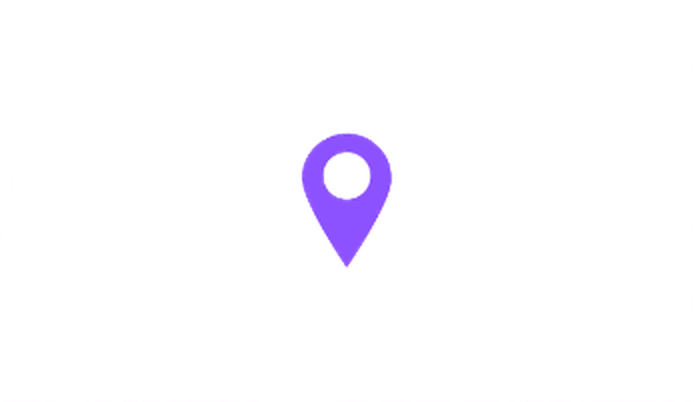
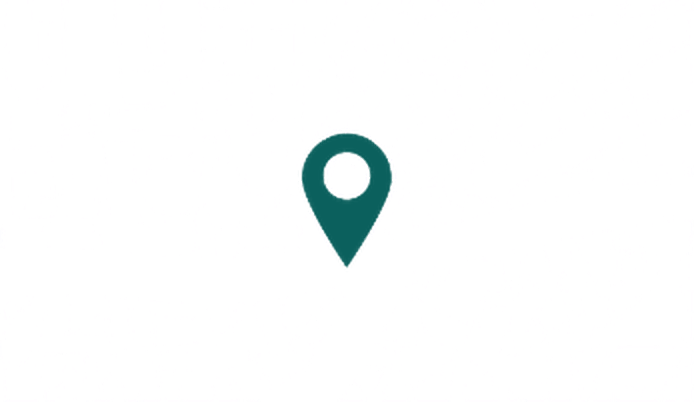
Switch brand color to teal #15B5B0
About: white background with teal wordmark and text. Contact: teal background with white text.
Menu, icons, share image and map pin recolored; menu bars turn teal over white.

Changed region(s): [[0.4236, 0.3284, 0.5749, 0.6567]]

diff --git a/index.html b/index.html
@@ -19,15 +19,12 @@
   <meta name="twitter:title" content="aroo. | Dog waste removal in Kansas">
   <meta name="twitter:description" content="Local, personal dog waste removal in Lawrence, Topeka and Manhattan, Kansas. Text DOG to (785) 600-8801.">
   <meta name="twitter:image" content="https://aroodog.com/assets/brand/og-image.png">
-  <meta name="theme-color" content="#6558DD">
+  <meta name="theme-color" content="#15B5B0">
   <link rel="icon" type="image/png" href="assets/brand/icon-512.png">
   <link rel="apple-touch-icon" href="assets/brand/apple-touch-icon.png">
   <style>
     :root {
-      --aroo-purple: #6558DD;
-      --aroo-violet: #8C52FF;
-      --aroo-sun: #FFDE59;
-      --aroo-yellow: var(--aroo-sun); /* about text matches the contact background */
+      --aroo-teal: #15B5B0; /* main brand color */
     }
     * { box-sizing: border-box; margin: 0; padding: 0; }
     body {
@@ -40,7 +37,7 @@
       height: 100vh;
       height: 100svh;
       overflow: hidden;
-      background: var(--aroo-purple);
+      background: var(--aroo-teal);
     }
 
     /* The stage holds 1 panel on phones, 3 side by side on desktop. */
@@ -96,7 +93,7 @@
     }
 
     /* ---------- About ---------- */
-    .about { background: var(--aroo-violet); }
+    .about { background: #fff; }
 
     .about-photo {
       position: relative;
@@ -109,7 +106,7 @@
       object-fit: cover;
       object-position: 50% 62%;
     }
-    /* White wordmark sits on the photo's bottom edge, dipping slightly onto the purple below. */
+    /* Teal wordmark sits on the photo's bottom edge, dipping slightly onto the white below. */
     .about-wordmark {
       position: absolute;
       left: 50%;
@@ -133,7 +130,7 @@
       grid-row: 1;
       font-family: "Jost", "Futura", "Century Gothic", system-ui, sans-serif;
       font-weight: 600;
-      color: var(--aroo-yellow);
+      color: var(--aroo-teal);
       font-size: clamp(20px, 2.4vw, 38px);
       line-height: 1.24;
       letter-spacing: -0.005em;
@@ -158,13 +155,12 @@
       margin-top: 0.9em;
       font-family: "Jost", "Futura", "Century Gothic", system-ui, sans-serif;
       font-weight: 600;
-      color: #fff;
+      color: var(--aroo-teal);
       font-size: clamp(26px, 3.6vw, 56px);
       line-height: 1.1;
       letter-spacing: -0.01em;
       white-space: nowrap;
     }
-    .about-text .hl { color: #fff; }
 
     @media (max-width: 720px) {
       .about-photo { height: 64vh; height: 64svh; }
@@ -178,7 +174,7 @@
       .about-dog figcaption { font-size: clamp(24px, 7.4vw, 34px); }
     }
     /* ---------- Contact ---------- */
-    .contact { background: var(--aroo-sun); overflow: hidden; padding: clamp(72px, 9vw, 130px) 0 clamp(64px, 7vw, 110px); }
+    .contact { background: var(--aroo-teal); color: #fff; overflow: hidden; padding: clamp(72px, 9vw, 130px) 0 clamp(64px, 7vw, 110px); }
     /* The poster scales as one piece: sizes are in cqw (1cqw = 1% of poster width; design was 1080px wide). */
     .contact-poster {
       container-type: inline-size;
@@ -196,7 +192,7 @@
     .contact-poster .brush {
       font-family: "Chewy", "Comic Sans MS", cursive;
       font-weight: 400;
-      color: var(--aroo-violet);
+      color: #fff;
       line-height: 1;
     }
     .contact-title {
@@ -221,7 +217,7 @@
       list-style: none;
       margin: 1.9cqw 0 0;
       padding: 0;
-      color: var(--aroo-violet);
+      color: #fff;
       font-size: 2.05cqw;
       letter-spacing: 0.02em;
     }
@@ -247,18 +243,18 @@
       font-size: 2.45cqw;
       letter-spacing: 0.02em;
     }
-    .contact-cta .lead b { color: var(--aroo-violet); font-weight: inherit; }
+    .contact-cta .lead b { font-weight: inherit; }
     .contact-phone {
       display: inline-block;
       margin-top: 1.6cqw;
-      color: var(--aroo-violet);
+      color: #fff;
       font-size: 5.7cqw;
       text-decoration: none;
       letter-spacing: -0.005em;
       transition: transform 0.2s ease, color 0.2s ease;
     }
-    .contact-phone:hover, .contact-phone:focus-visible { color: #fff; transform: scale(1.03); }
-    .contact-phone:focus-visible { outline: 3px solid var(--aroo-violet); outline-offset: 6px; }
+    .contact-phone:hover, .contact-phone:focus-visible { transform: scale(1.04); }
+    .contact-phone:focus-visible { outline: 3px solid #fff; outline-offset: 6px; }
 
     @media (max-width: 640px) {
       .contact { padding: 64px 20px 72px; }
@@ -318,8 +314,8 @@
       min-width: 230px;
       padding: 68px 30px 26px;
       border-radius: 18px;
-      background: var(--aroo-violet);
-      box-shadow: 0 18px 40px rgba(40, 20, 90, 0.3);
+      background: var(--aroo-teal);
+      box-shadow: 0 18px 40px rgba(5, 60, 58, 0.3);
       opacity: 0;
       visibility: hidden;
       transform: translateY(-8px) scale(0.98);
@@ -346,7 +342,10 @@
       letter-spacing: 0.01em;
       transition: color 0.15s ease;
     }
-    .menu-panel a:hover, .menu-panel a:focus-visible { color: var(--aroo-yellow); outline: none; }
+    .menu-panel a:hover, .menu-panel a:focus-visible { text-decoration: underline; text-decoration-thickness: 3px; text-underline-offset: 6px; outline: none; }
+    /* Over the white part of the About section the bars turn teal so they stay visible. */
+    .menu.on-light:not(.is-open) .bars span { background: var(--aroo-teal); box-shadow: none; }
+    .menu.on-light:not(.is-open) .menu-toggle:focus-visible { outline-color: var(--aroo-teal); }
   </style>
   <link rel="preconnect" href="https://fonts.googleapis.com">
   <link rel="preconnect" href="https://fonts.gstatic.com" crossorigin>
@@ -377,7 +376,7 @@
       <img src="assets/about/about-dog.jpg"
            srcset="assets/about/about-dog-1200.jpg 1200w, assets/about/about-dog.jpg 2400w"
            sizes="100vw" alt="A smiling golden-red dog sitting by a lake" loading="lazy">
-      <img class="about-wordmark" src="assets/brand/aroo-wordmark-white.png" alt="" aria-hidden="true">
+      <img class="about-wordmark" src="assets/brand/aroo-wordmark-teal.png" alt="" aria-hidden="true">
     </div>
     <div class="about-body">
       <p class="about-text">We are a local, personal dog waste removal company in Kansas. We clean up your dog’s poop so you can <span class="hl">let them go!</span> We offer competitive pricing while delivering premium service. Oh, and we want to know your dog’s name!</p>
@@ -397,7 +396,7 @@
         <li>LAWRENCE</li><li>TOPEKA</li><li>MANHATTAN</li>
       </ul>
       <div class="contact-row">
-        <img class="contact-map" src="assets/contact/map.png" width="694" height="402" alt="" aria-hidden="true" loading="lazy">
+        <img class="contact-map" src="assets/contact/map.png?v=2" width="694" height="402" alt="" aria-hidden="true" loading="lazy">
         <ul class="contact-prices brush">
           <li>STARTING AT $14.99</li>
         </ul>
@@ -575,6 +574,20 @@
       document.addEventListener('keydown', function (e) {
         if (e.key === 'Escape') { setOpen(false); btn.focus(); }
       });
+
+      // Teal bars while they sit over the white part of the About section.
+      var light = document.querySelector('.about-body');
+      var ticking = false;
+      function checkLight() {
+        ticking = false;
+        var b = btn.getBoundingClientRect(), r = light.getBoundingClientRect();
+        var y = b.top + b.height / 2;
+        menu.classList.toggle('on-light', y >= r.top && y <= r.bottom);
+      }
+      function onScroll() { if (!ticking) { ticking = true; requestAnimationFrame(checkLight); } }
+      window.addEventListener('scroll', onScroll, { passive: true });
+      window.addEventListener('resize', onScroll);
+      checkLight();
     })();
   </script>
 </body>
